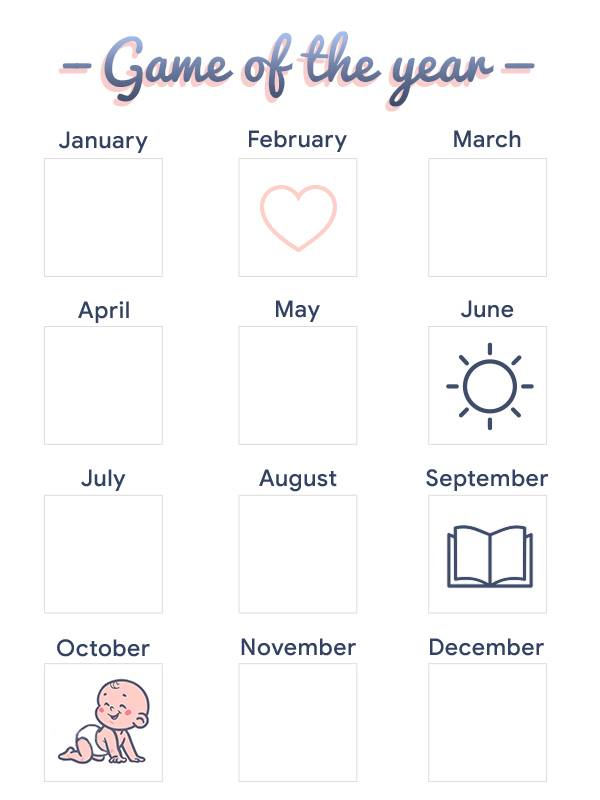
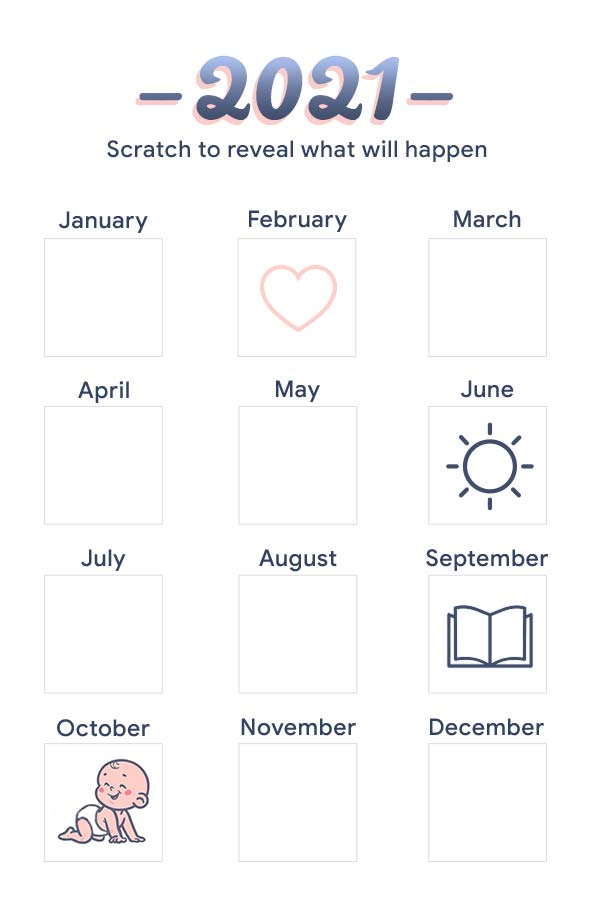
feat(scratch-off): clean up code and change images

diff --git a/index.html b/index.html
@@ -1,155 +1,138 @@
 <!DOCTYPE html>
 <html lang="en">
-<head>
-  <meta charset="utf-8">
-  <meta name="viewport" content="width=device-width" />
-  <link href='https://fonts.googleapis.com/css?family=Open+Sans:400,300,300italic,400italic,600,600italic,700italic,700' rel='stylesheet' type='text/css'>
-  
-  <title>Scratch Card</title>
-  <style type="text/css">
-  html {
-  box-sizing: border-box;
-}
-*, *:before, *:after {
-  box-sizing: inherit;
-}
-body {
-    background:#efefef;
-}
+  <head>
+    <meta charset="utf-8">
+    <meta name="viewport" content="width=device-width" />
+    <title>2021 Calendar</title>
 
-.background {
-    position:absolute;
-    z-index:1;
-}
+    <style type="text/css">
+      body {
+          background: #efefef;
+      }
+      .minidup-background {
+          position: absolute;
+          z-index: 1;
+      }
+      .minidup-scratchpad {
+        box-sizing: border-box;
+        width: 620px;
+        height: 920px;
+        border: solid 10px #FFFFFF;
+        margin: 12px auto;
+        cursor: url('assets/img/coin.png') 32 32, default;
+      }
+      .minidup-container {
+        position: relative;
+        width: 600px;
+        height: 900px;
+        margin: 0 auto;
+        -webkit-touch-callout: none;
+        -webkit-user-select: none;
+        -khtml-user-select: none;
+        -moz-user-select: none;
+        -ms-user-select: none;
+        user-select: none;
+        width: 100%;
+      }
+      .minidup-canvas {
+          position: relative;
+          z-index: 20;
+      }
+    </style>
+  </head>
 
-.container {
-  position: relative;
-  width: 600px;
-  height: 800px;
-  margin: 0 auto;
-    -webkit-touch-callout: none;
-  -webkit-user-select: none;
-  -khtml-user-select: none;
-  -moz-user-select: none;
-  -ms-user-select: none;
-  user-select: none;
-  width:100%;
-}
+  <body>
+    <div class="minidup-container" id="minidup-container">
+      <div class="minidup-scratchpad">
+          <img id="minidup-background" class="minidup-background" alt="Pregnancy image" src="assets/img/background.jpg" style="display: none;" />
+          <canvas class="minidup-canvas" id="minidup-canvas" width="600" height="900"></canvas>
+      </div> 
+    </div>
 
-.canvas {
-    position:relative;
-    z-index:20;
-}
+    <script type="text/javascript">
+      (function() {
+        
+        'use strict';
+        
+        var isDrawing, lastPoint;
+        var container    = document.getElementById('minidup-container'),
+            canvas       = document.getElementById('minidup-canvas'),
+            canvasWidth  = canvas.width,
+            canvasHeight = canvas.height,
+            ctx          = canvas.getContext('2d'),
+            image        = new Image(),
+            brush        = new Image();
 
-.scratchpad {
-  width: 620px;
-  height: 820px;
-  border: solid 10px #FFFFFF;
-  margin: 32px auto;
-  cursor: url('assets/img/coin.png') 32 32, default;
-}
-  </style>
+        image.src = 'assets/img/overlay.jpg';
+        image.width = 600;
+        image.height = 900;
+        image.onload = function() {
+          ctx.drawImage(image, 0, 0);
+          document.querySelectorAll('.minidup-scratchpad')[0].style.visibility = 'visible';
+          document.getElementById('minidup-background').style.display = 'unset';
+        };
+        brush.src = 'assets/img/coin.png';
 
-</head>
-<body>
+        canvas.addEventListener('mousedown', handleMouseDown, false);
+        canvas.addEventListener('touchstart', handleMouseDown, false);
+        canvas.addEventListener('mousemove', handleMouseMove, false);
+        canvas.addEventListener('touchmove', handleMouseMove, false);
+        canvas.addEventListener('mouseup', handleMouseUp, false);
+        canvas.addEventListener('touchend', handleMouseUp, false);
+        
+        function distanceBetween(point1, point2) {
+          return Math.sqrt(Math.pow(point2.x - point1.x, 2) + Math.pow(point2.y - point1.y, 2));
+        }
+        
+        function angleBetween(point1, point2) {
+          return Math.atan2( point2.x - point1.x, point2.y - point1.y );
+        }
+        
+        function getMouse(e, canvas) {
+          var offsetX = 0, offsetY = 0, mx, my;
 
-<div class="container" id="js-container">
-    <div class="scratchpad">
-        <img id="background" class="background" alt="Pregnancy image" src="assets/img/background.jpg" style="display: none;" />
-        <canvas class="canvas" id="js-canvas" width="600" height="900"></canvas>
-    </div> 
-  </div>
+          if (canvas.offsetParent !== undefined) {
+            do {
+              offsetX += canvas.offsetLeft;
+              offsetY += canvas.offsetTop;
+            } while ((canvas = canvas.offsetParent));
+          }
 
-<script type="text/javascript">
+          mx = (e.pageX || e.touches[0].clientX) - offsetX;
+          my = (e.pageY || e.touches[0].clientY) - offsetY;
 
-(function() {
-  
-  'use strict';
-  
-  var isDrawing, lastPoint;
-  var container    = document.getElementById('js-container'),
-      canvas       = document.getElementById('js-canvas'),
-      canvasWidth  = canvas.width,
-      canvasHeight = canvas.height,
-      ctx          = canvas.getContext('2d'),
-      image        = new Image(),
-      brush        = new Image();
-      
-  // base64 Workaround because Same-Origin-Policy
-  image.src = 'assets/img/overlay.jpg';
-  image.width = 600;
-  image.height = 800;
-  image.onload = function() {
-    ctx.drawImage(image, 0, 0);
-    document.querySelectorAll('.scratchpad')[0].style.visibility = 'visible';
-  document.getElementById('background').style.display = 'unset';
-  };
-  brush.src = 'assets/img/coin.png';
+          return {x: mx, y: my};
+        }
+        
+        function handleMouseDown(e) {
+          isDrawing = true;
+          lastPoint = getMouse(e, canvas);
+        }
 
-  canvas.addEventListener('mousedown', handleMouseDown, false);
-  canvas.addEventListener('touchstart', handleMouseDown, false);
-  canvas.addEventListener('mousemove', handleMouseMove, false);
-  canvas.addEventListener('touchmove', handleMouseMove, false);
-  canvas.addEventListener('mouseup', handleMouseUp, false);
-  canvas.addEventListener('touchend', handleMouseUp, false);
-  
-  function distanceBetween(point1, point2) {
-    return Math.sqrt(Math.pow(point2.x - point1.x, 2) + Math.pow(point2.y - point1.y, 2));
-  }
-  
-  function angleBetween(point1, point2) {
-    return Math.atan2( point2.x - point1.x, point2.y - point1.y );
-  }
-  
-  function getMouse(e, canvas) {
-    var offsetX = 0, offsetY = 0, mx, my;
+        function handleMouseMove(e) {
+          if (!isDrawing) { return; }
+          
+          e.preventDefault();
 
-    if (canvas.offsetParent !== undefined) {
-      do {
-        offsetX += canvas.offsetLeft;
-        offsetY += canvas.offsetTop;
-      } while ((canvas = canvas.offsetParent));
-    }
+          var currentPoint = getMouse(e, canvas),
+              dist = distanceBetween(lastPoint, currentPoint),
+              angle = angleBetween(lastPoint, currentPoint),
+              x, y;
+          
+          for (var i = 0; i < dist; i++) {
+            x = lastPoint.x + (Math.sin(angle) * i) - 25;
+            y = lastPoint.y + (Math.cos(angle) * i) - 25;
+            ctx.globalCompositeOperation = 'destination-out';
+            ctx.drawImage(brush, x, y);
+          }
+          
+          lastPoint = currentPoint;
+        }
 
-    mx = (e.pageX || e.touches[0].clientX) - offsetX;
-    my = (e.pageY || e.touches[0].clientY) - offsetY;
-
-    return {x: mx, y: my};
-  }
-  
-  function handleMouseDown(e) {
-    isDrawing = true;
-    lastPoint = getMouse(e, canvas);
-  }
-
-  function handleMouseMove(e) {
-    if (!isDrawing) { return; }
-    
-    e.preventDefault();
-
-    var currentPoint = getMouse(e, canvas),
-        dist = distanceBetween(lastPoint, currentPoint),
-        angle = angleBetween(lastPoint, currentPoint),
-        x, y;
-    
-    for (var i = 0; i < dist; i++) {
-      x = lastPoint.x + (Math.sin(angle) * i) - 25;
-      y = lastPoint.y + (Math.cos(angle) * i) - 25;
-      ctx.globalCompositeOperation = 'destination-out';
-      ctx.drawImage(brush, x, y);
-    }
-    
-    lastPoint = currentPoint;
-  }
-
-  function handleMouseUp(e) {
-    isDrawing = false;
-  }
-  
-})();
-
-</script>
-      
-
-</body>
+        function handleMouseUp(e) {
+          isDrawing = false;
+        }
+      })();
+    </script>
+  </body>
 </html>
